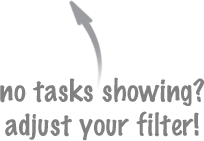
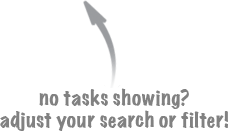
task helper refinements

Changed region(s): [[0.0, 0.0, 1.0, 1.0], [0.0, 0.5802, 0.1471, 0.7328]]

diff --git a/apps/tasks/english.lproj/main_page.js b/apps/tasks/english.lproj/main_page.js
@@ -295,7 +295,7 @@ Tasks.mainPage = SC.Page.design({
           action: 'showAssignee',
           
           render: function(context, firstTime) {
-            if(Tasks.loginTime) return;
+            if(Tasks.loginTime || !Tasks.tasksController.isAddable()) return;
             var tasksCount = Tasks.projectsController.getPath('selection.firstObject.tasks.length');
             if(tasksCount === 0) {
               context.addClass('zero-tasks-helper');
